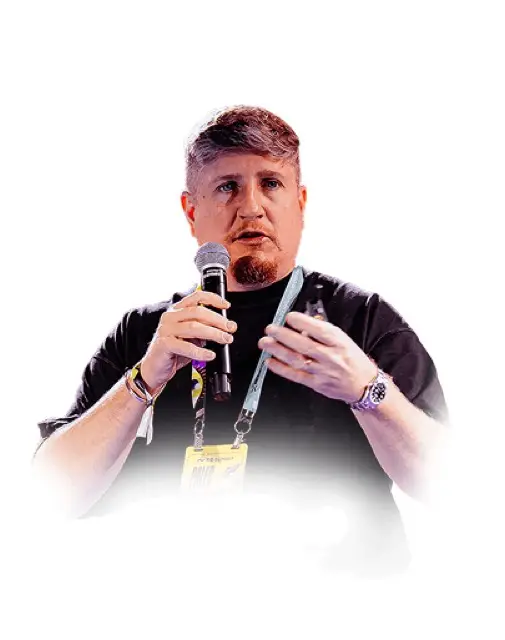
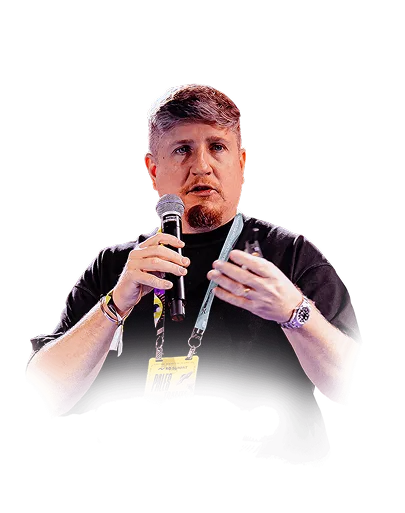
Ajustes

diff --git a/src/features/SpeakerLanding/speakerLandingData.js b/src/features/SpeakerLanding/speakerLandingData.js
@@ -100,7 +100,7 @@ const segmentLandingList = [
       },
       {
         name: "Rafael Liporace",
-        image: "/palestrantes/RafaelLiporace.png",
+        image: "/optimized/step1/Rafael_liporace.PNG",
         bio: "CEO da Tardezinha. O mentor por trás da maior turnê da história da música brasileira. Expert em economia criativa e em transformar eventos em ativos de milhões.",
       },
     ],
@@ -411,7 +411,7 @@ const segmentLandingList = [
       },
       {
         name: "Fabrício Alva",
-        image: "/novas-palestrantes/slide-fabricio-alva.PNG",
+        image: "/optimized/step1/Fabricio_alva.PNG",
         bio: "Consultor empresarial, estrategista de negócios e especialista em performance,já ajudou empresas e profissionais a estruturarem seus negócios com mais clareza, eficiência e previsibilidade, unindo experiência prática com o uso inteligente da tecnologia.",
       },
     ],

diff --git a/src/components/NewVendas/mainSpeakersData.js b/src/components/NewVendas/mainSpeakersData.js
@@ -66,8 +66,13 @@ export const mainSpeakersData = [
   },
   {
     name: "Fabricio Alva",
-    image: "/palestrantes/FabricioAlva.png",
+    image: "/optimized/step1/Fabricio_alva.PNG",
     bio: "Especialista em gestão empresarial com foco em estruturação de operações e processos que preparam empresas para escalar.",
+  },
+  {
+    name: "Rafael Liporace",
+    image: "/optimized/step1/Rafael_liporace.PNG",
+    bio: "Cofundador e CEO da Tardezinha, estrategista por trás da maior turnê da história do entretenimento brasileiro. Especialista em escala exponencial e gestão de grandes operações, lidera empresas premiadas nacionalmente por sua cultura de performance e excelência operacional.",
   },
   {
     name: "Gisele Oshiro",

diff --git a/src/components/NewVendas/NewVendasSpeakersSlider.jsx b/src/components/NewVendas/NewVendasSpeakersSlider.jsx
@@ -69,8 +69,13 @@ const mainSpeakers = [
   },
   {
     name: "Fabricio Alva",
-    image: "/palestrantes/FabricioAlva.png",
+    image: "/optimized/step1/Fabricio_alva.PNG",
     bio: "Especialista em gestão empresarial com foco em estruturação de operações e processos que preparam empresas para escalar.",
+  },
+  {
+    name: "Rafael Liporace",
+    image: "/optimized/step1/Rafael_liporace.PNG",
+    bio: "Cofundador e CEO da Tardezinha, estrategista por trás da maior turnê da história do entretenimento brasileiro. Especialista em escala exponencial e gestão de grandes operações, lidera empresas premiadas nacionalmente por sua cultura de performance e excelência operacional.",
   },
   {
     name: "Gisele Oshiro",

diff --git a/src/data/InfoPalestrantes.js b/src/data/InfoPalestrantes.js
@@ -79,7 +79,7 @@
     {
         nome: "Rafael Liporace",
         desc: "ReferÃªncia nacional em marketing promocional e encantamento.",
-        img: "/palestrantes/RafaelLiporace.png"
+        img: "/optimized/step1/Rafael_liporace.PNG"
     },
 
     {
@@ -140,7 +140,7 @@
     {
         nome: "FabrÃcio Alva",
         desc: "Consultor estratÃ©gico, empreendedor e especialista em performance empresarial.",
-        img: "/palestrantes/FabricioAlva.png"
+        img: "/optimized/step1/Fabricio_alva.PNG"
     },
     {
         nome: "Flavia Soares",

diff --git a/src/data/InfoNovosPalestrantes.js b/src/data/InfoNovosPalestrantes.js
@@ -101,7 +101,13 @@ export const InfoNovosPalestrantes = [
   {
     nome: "Fabricio Alva",
     desc: "CEO do Grupo Digital e Consultor empresarial",
-    img: "/novas-palestrantes/slide-fabricio-alva.PNG",
+    img: "/optimized/step1/Fabricio_alva.PNG",
+    badge: "Local",
+  },
+  {
+    nome: "Rafael Liporace",
+    desc: "Cofundador e CEO da Tardezinha",
+    img: "/optimized/step1/Rafael_liporace.PNG",
     badge: "Local",
   },
   {

diff --git a/src/data/InfoPalestrantesRegionais.js b/src/data/InfoPalestrantesRegionais.js
@@ -58,7 +58,7 @@
     {
         nome: "FabrÃcio Alva",
         desc: "Consultor estratÃ©gico, empreendedor e especialista em performance empresarial.",
-        img: "/palestrantes/FabricioAlva.png"
+        img: "/optimized/step1/Fabricio_alva.PNG"
     },
     {
         nome: "Flavia Soares",

diff --git a/src/data/InfoPalestrantesNacionais.js b/src/data/InfoPalestrantesNacionais.js
@@ -79,7 +79,7 @@ export const InfoPalestrantesNacionais = [
     {
         nome: "Rafael Liporace",
         desc: "Referência nacional em marketing promocional e encantamento.",
-        img: "/palestrantes/RafaelLiporace.png"
+        img: "/optimized/step1/Rafael_liporace.PNG"
     },
 
 ]
